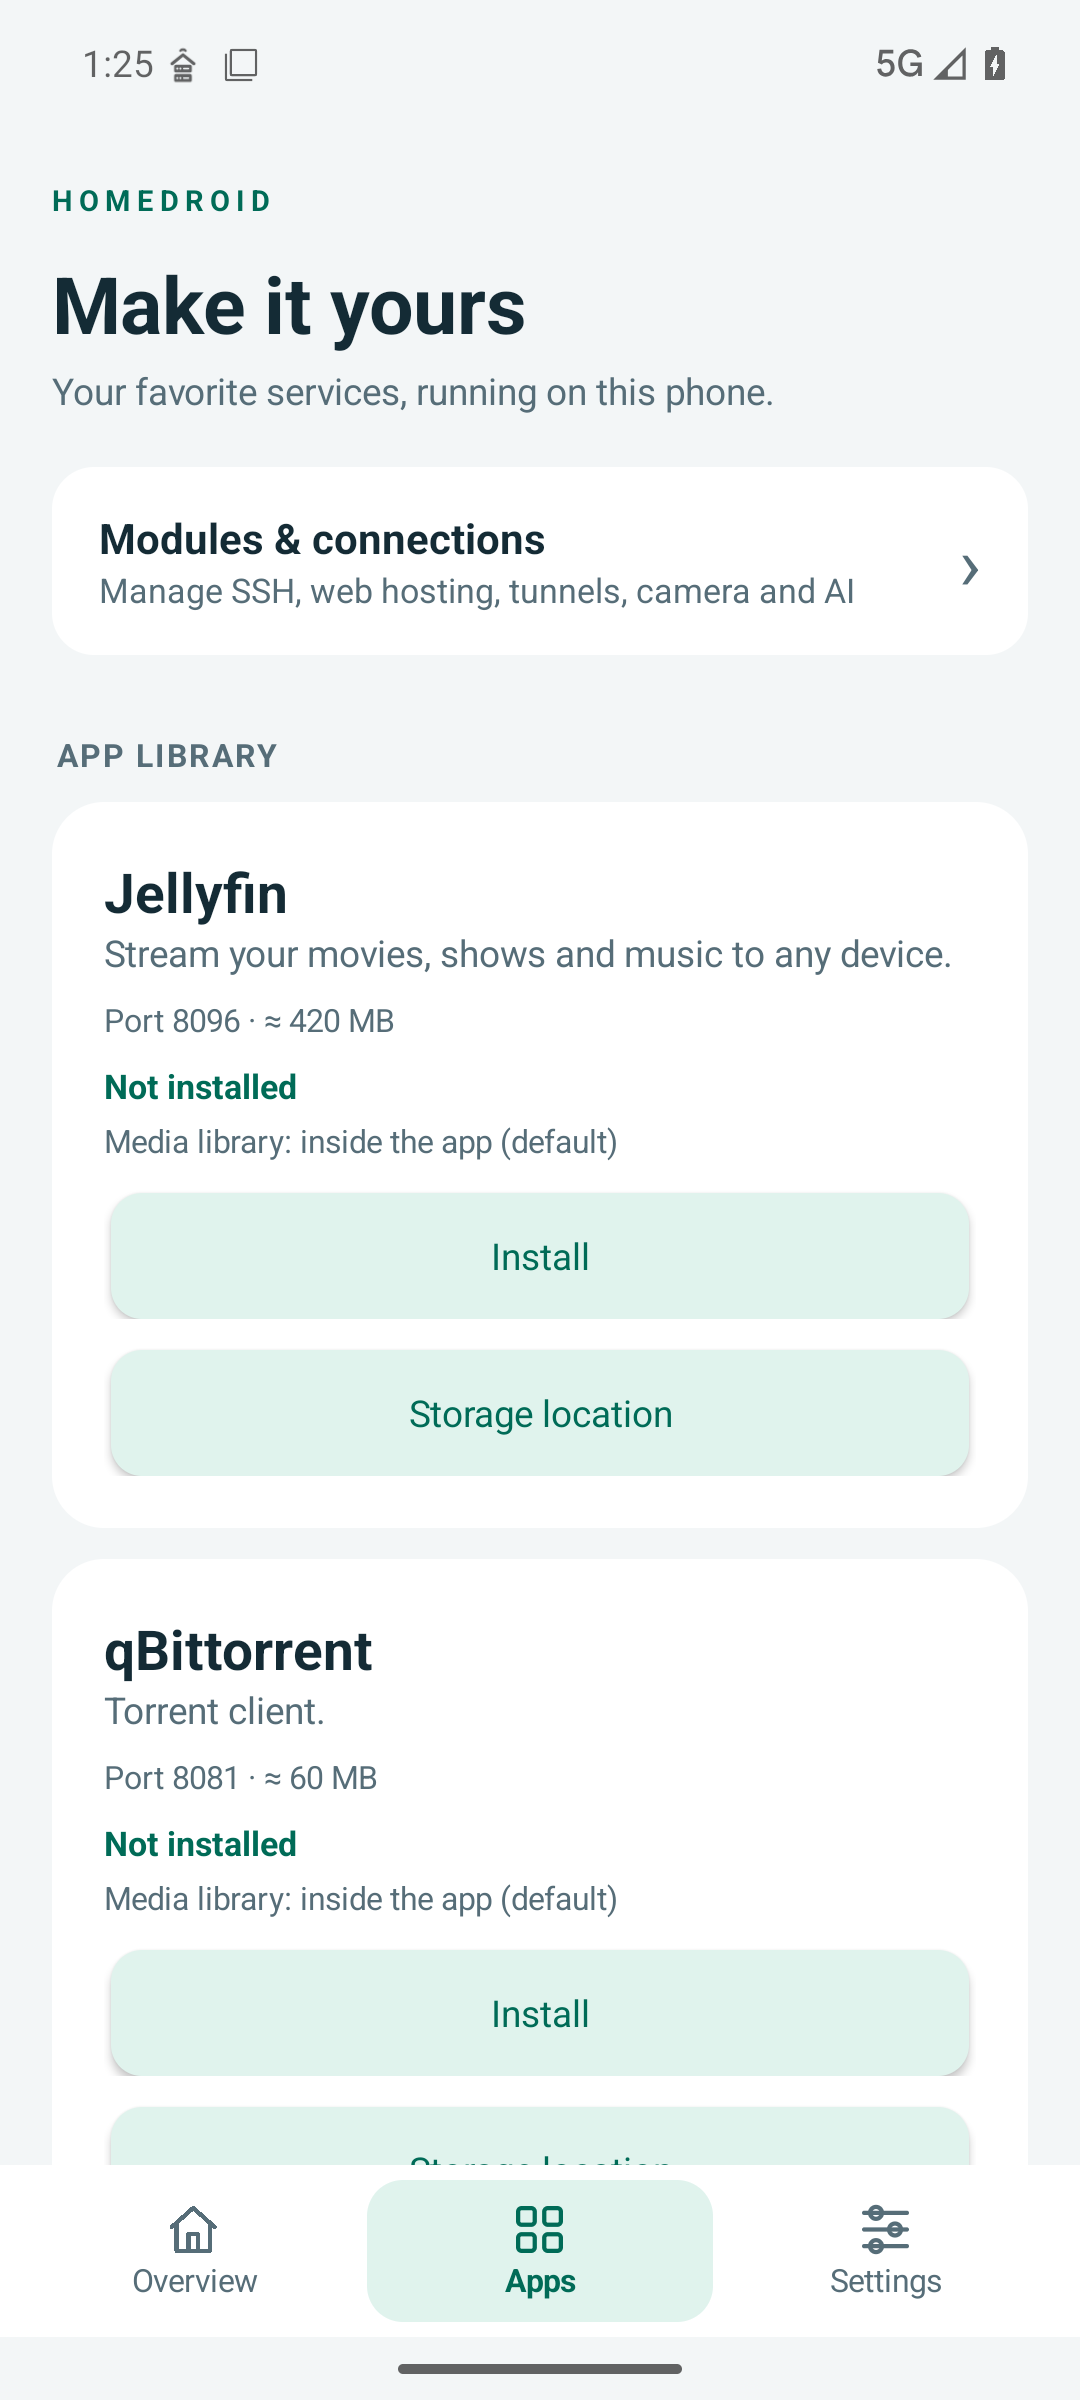
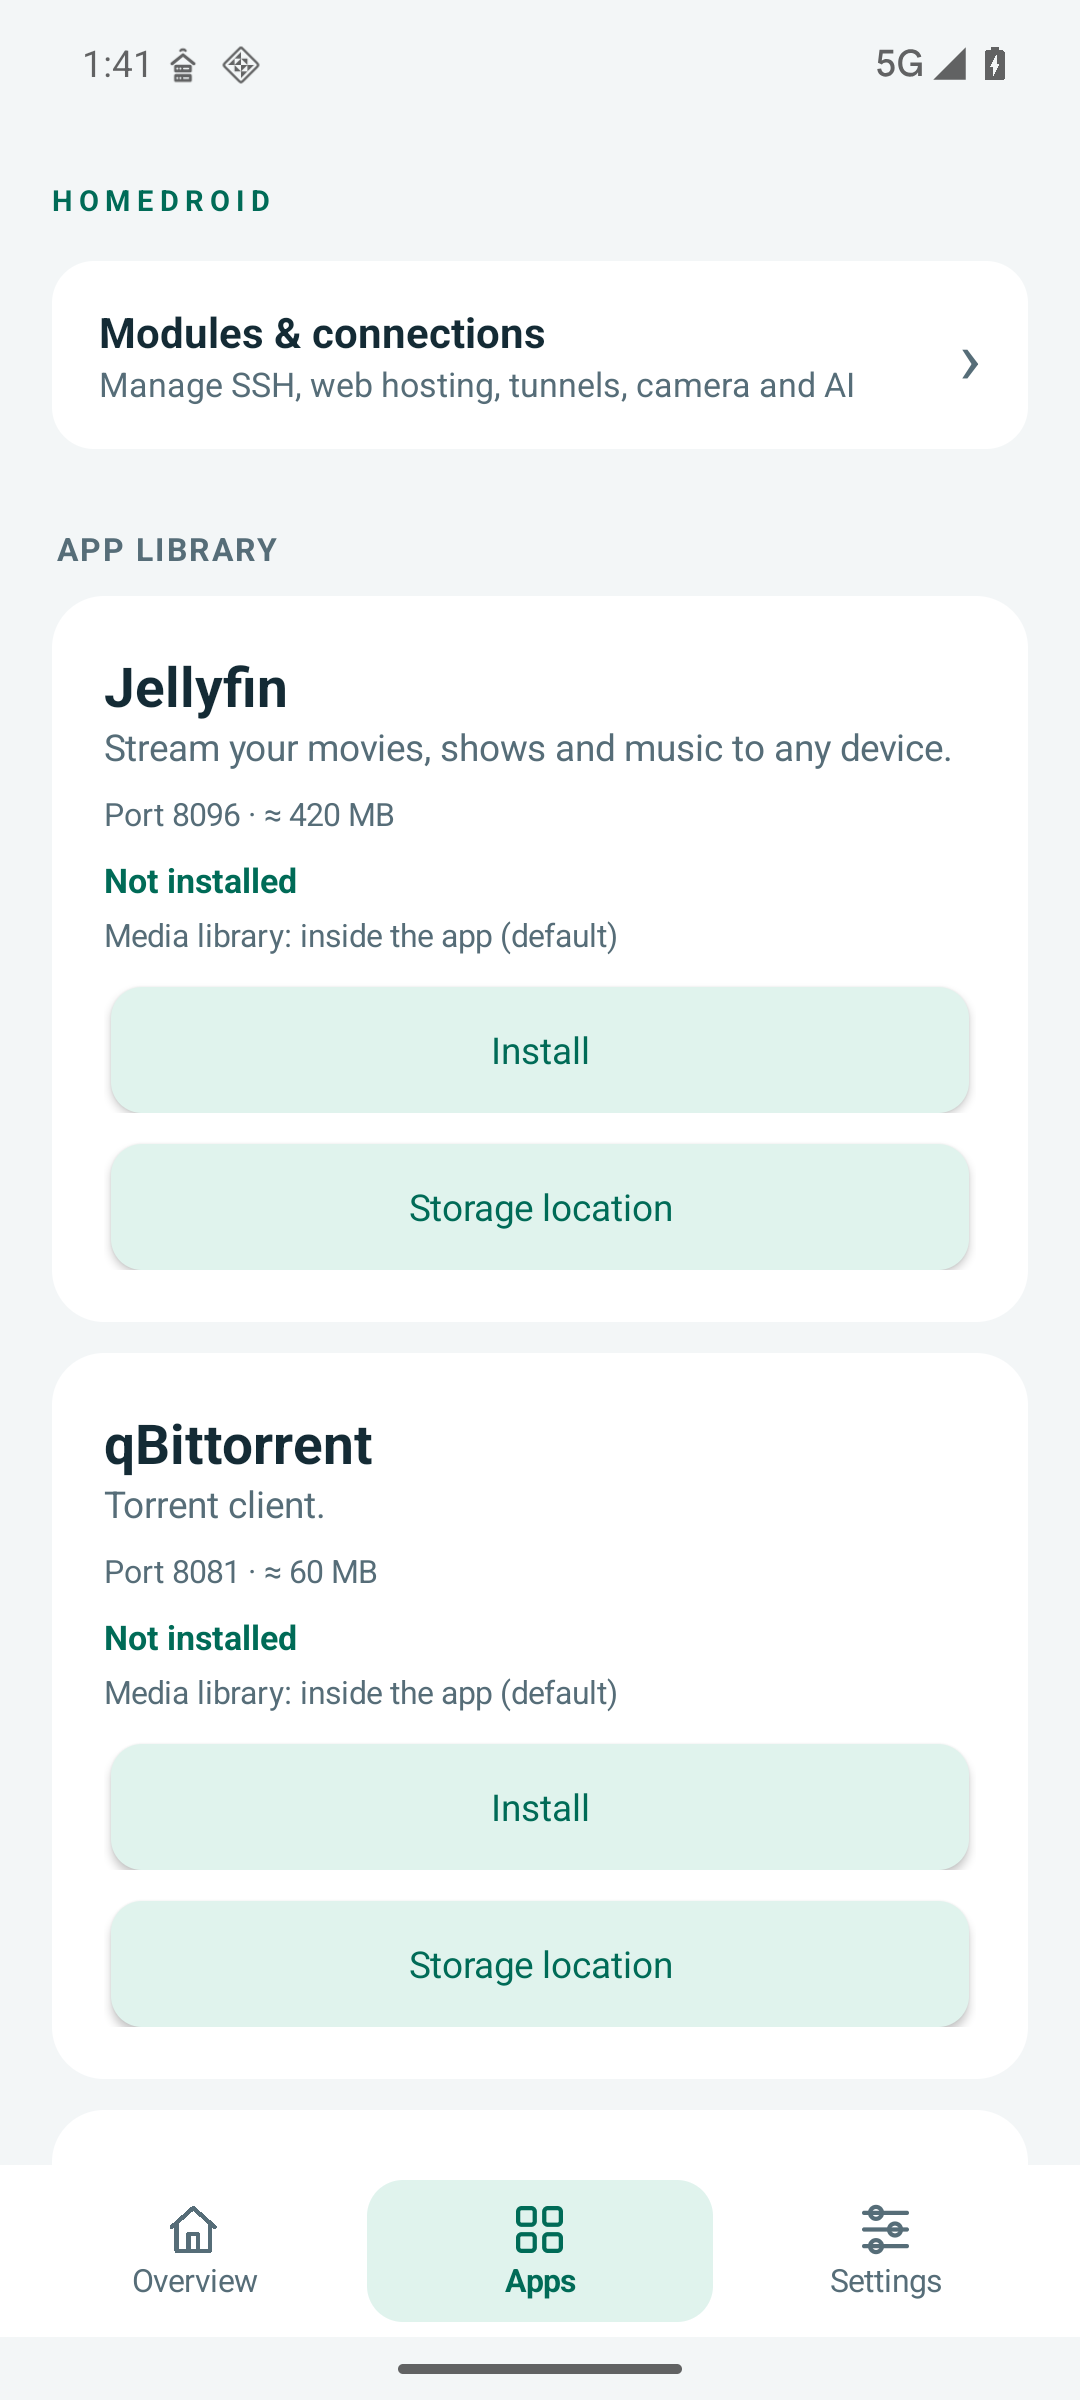
Simplify phone headers and name running services

diff --git a/app/src/main/java/dev/homedroid/MainActivity.kt b/app/src/main/java/dev/homedroid/MainActivity.kt
@@ -35,7 +35,7 @@ class MainActivity : MobileActivity() {
         super.onCreate(savedInstanceState)
         cfg = Config(this)
         Paths(this).ensure()
-        val page = design.page("Your home server", "A little phone. A lot of possibilities.", "Overview")
+        val page = design.page("Overview")
         val hero = design.card()
         hero.addView(design.text("SERVER STATUS", 11f, design.accent, true))
         headline = design.text("Ready when you are", 25f, design.ink, true)
@@ -150,9 +150,11 @@ class MainActivity : MobileActivity() {
 
     private fun refresh() {
         val sv = ServerService.supervisor
-        val live = sv?.daemons.orEmpty().count { it.state == Supervisor.State.RUNNING }
+        val running = sv?.daemons.orEmpty().filter { it.state == Supervisor.State.RUNNING }.map { serviceName(it.spec.name) }
         headline.setTextIfChanged(if (sv != null) "Your server is online" else if (ServerService.active) "Starting your server…" else "Ready when you are")
-        summary.setTextIfChanged(if (sv != null) "$live of ${sv.daemons.size} services running" else if (ServerService.active) "Getting your services ready." else "Start your server to bring your apps online.")
+        summary.setTextIfChanged(if (sv != null) {
+            if (running.isEmpty()) "No services running yet." else "Running: ${running.joinToString(" · ")}"
+        } else if (ServerService.active) "Getting your services ready." else "Start your server to bring your apps online.")
         toggle.setTextIfChanged(if (ServerService.active) "Stop server" else "Start server")
         val dev = Device(this)
         battery.setTextIfChanged(if (dev.batteryPercent < 0) "Unknown" else "${dev.batteryPercent}%")
@@ -169,7 +171,7 @@ class MainActivity : MobileActivity() {
             if (names.isEmpty()) services.addView(design.text("Services appear here when the server starts.", 14f, design.muted).apply { setPadding(0, 0, 0, design.dp(16)) })
             sv?.daemons?.forEach { daemon ->
                 val card = design.card()
-                card.addView(design.text(daemon.spec.name.replaceFirstChar { it.uppercase() }, 16f, design.ink, true))
+                card.addView(design.text(serviceName(daemon.spec.name), 16f, design.ink, true))
                 val state = design.text("", 13f, design.muted); serviceRows[daemon.spec.name] = state; card.addView(state)
                 card.addView(design.button("Restart service") { ServerService.supervisor?.daemons?.firstOrNull { it.spec.name == daemon.spec.name }?.restart() })
                 services.addView(card)
@@ -186,5 +188,14 @@ class MainActivity : MobileActivity() {
                 setTextColor(if (d.state == Supervisor.State.BACKOFF) design.warning else design.muted)
             }
         }
+    }
+
+    private fun serviceName(name: String): String = when (name) {
+        "sshd" -> "SSH & SFTP"
+        "caddy" -> "Web hosting"
+        "cloudflared" -> "Cloudflare Tunnel"
+        "tailscaled" -> "Tailscale"
+        "ai-llama" -> "AI (llama.cpp)"
+        else -> name.replaceFirstChar { it.uppercase() }
     }
 }

diff --git a/app/src/main/java/dev/homedroid/MobileUi.kt b/app/src/main/java/dev/homedroid/MobileUi.kt
@@ -99,7 +99,7 @@ class MobileUi(val activity: Activity) {
             setOnCheckedChangeListener { _, on -> changed(on) }
         }, LinearLayout.LayoutParams(-1, -2))
     }
-    fun page(title: String, subtitle: String, selected: String? = null): LinearLayout {
+    fun page(selected: String? = null): LinearLayout {
         val shell = column().apply { setBackgroundColor(this@MobileUi.background) }
         shell.setOnApplyWindowInsetsListener { view, insets ->
             if (Build.VERSION.SDK_INT >= 30) {
@@ -112,9 +112,7 @@ class MobileUi(val activity: Activity) {
             insets
         }
         val content = column().apply { setPadding(dp(20), dp(20), dp(20), dp(24)) }
-        content.addView(text("H O M E D R O I D", 11f, accent, true))
-        content.addView(text(title, 30f, ink, true).apply { setPadding(0, dp(12), 0, dp(4)) })
-        content.addView(text(subtitle, 14f, muted).apply { setPadding(0, 0, 0, dp(20)) })
+        content.addView(text("H O M E D R O I D", 11f, accent, true).apply { setPadding(0, 0, 0, dp(16)) })
         shell.addView(ScrollView(activity).apply { isFillViewport = true; addView(content) }, LinearLayout.LayoutParams(-1, 0, 1f))
         if (selected != null) {
             val nav = LinearLayout(activity).apply { setBackgroundColor(surface); setPadding(dp(8), dp(6), dp(8), dp(6)) }

diff --git a/app/src/main/java/dev/homedroid/SettingsActivity.kt b/app/src/main/java/dev/homedroid/SettingsActivity.kt
@@ -20,7 +20,7 @@ class SettingsActivity : MobileActivity() {
     override fun onCreate(savedInstanceState: Bundle?) {
         super.onCreate(savedInstanceState)
         cfg = Config(this)
-        val page = design.page("Settings", "Make this phone work your way.", "Settings")
+        val page = design.page("Settings")
         page.addView(design.label("PREFERENCES"))
         page.addView(design.row("Appearance", "${cfg.appearance.replaceFirstChar { it.uppercase() }} · light, dark or follow your phone") {
             val values = arrayOf("system", "light", "dark")

diff --git a/app/src/main/java/dev/homedroid/AppsActivity.kt b/app/src/main/java/dev/homedroid/AppsActivity.kt
@@ -54,7 +54,7 @@ class AppsActivity : MobileActivity() {
         apps = Apps(this, Paths(this))
         cfg = Config(this)
 
-        val list = design.page("Make it yours", "Your favorite services, running on this phone.", "Apps")
+        val list = design.page("Apps")
         list.addView(design.row("Modules & connections", "Manage SSH, web hosting, tunnels, camera and AI") { DashboardActivity.open(this, "modules") })
         list.addView(design.label("APP LIBRARY"))
         for (app in apps.catalog) list.addView(card(app))

diff --git a/docs/releases/v0.9.2-beta.md b/docs/releases/v0.9.2-beta.md
@@ -7,7 +7,8 @@ library and new settings screen use a consistent native interface with light and
 
 - **A clearer overview.** Server status, battery, temperature, available memory and storage
   have their own cards. Start or stop the server, restart individual services, share the
-  dashboard address and inspect service logs. The dashboard password is hidden until opened.
+  dashboard address and inspect service logs. Running services are listed by name, and the
+  screens keep their headers compact. The dashboard password is hidden until opened.
 - **Phone settings.** Change startup behavior, SSH and web hosting, Tailscale and Cloudflare
   Tunnel setup, SSH authorized keys and the dashboard password. Password changes sign out
   existing browser sessions. Service changes restart active services; changes made while
